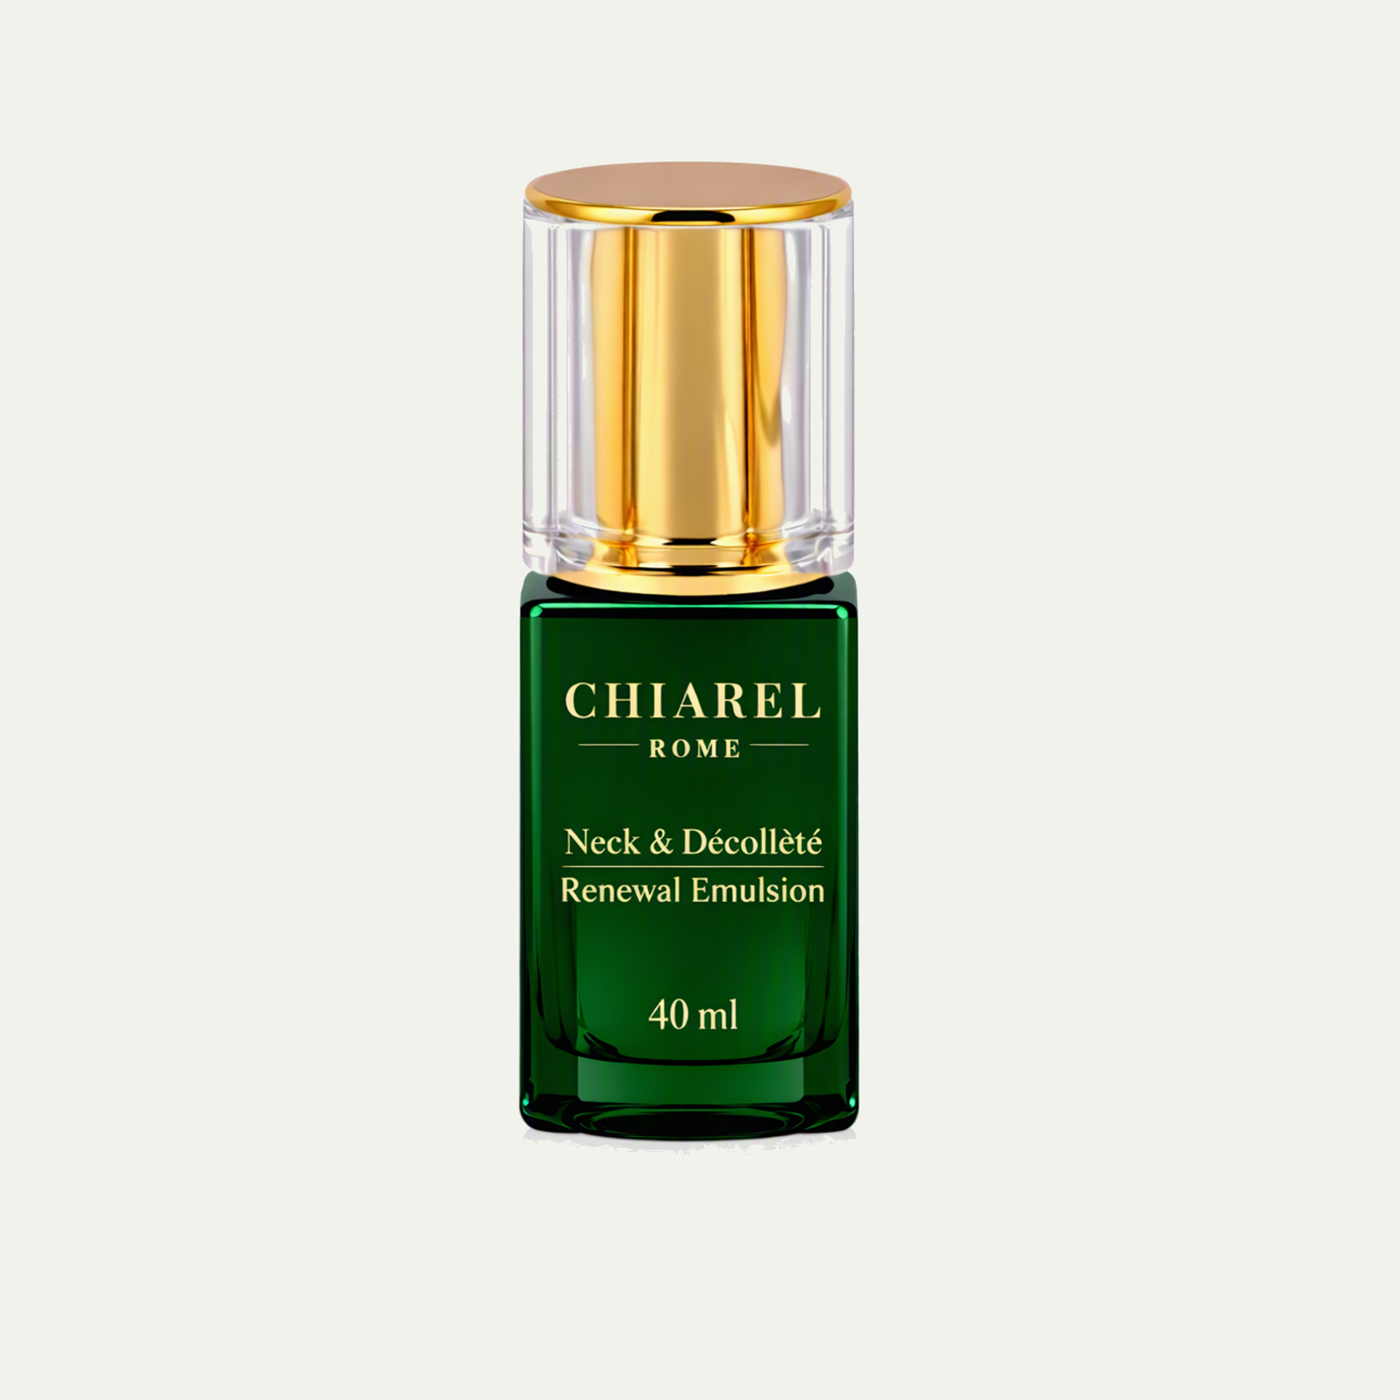
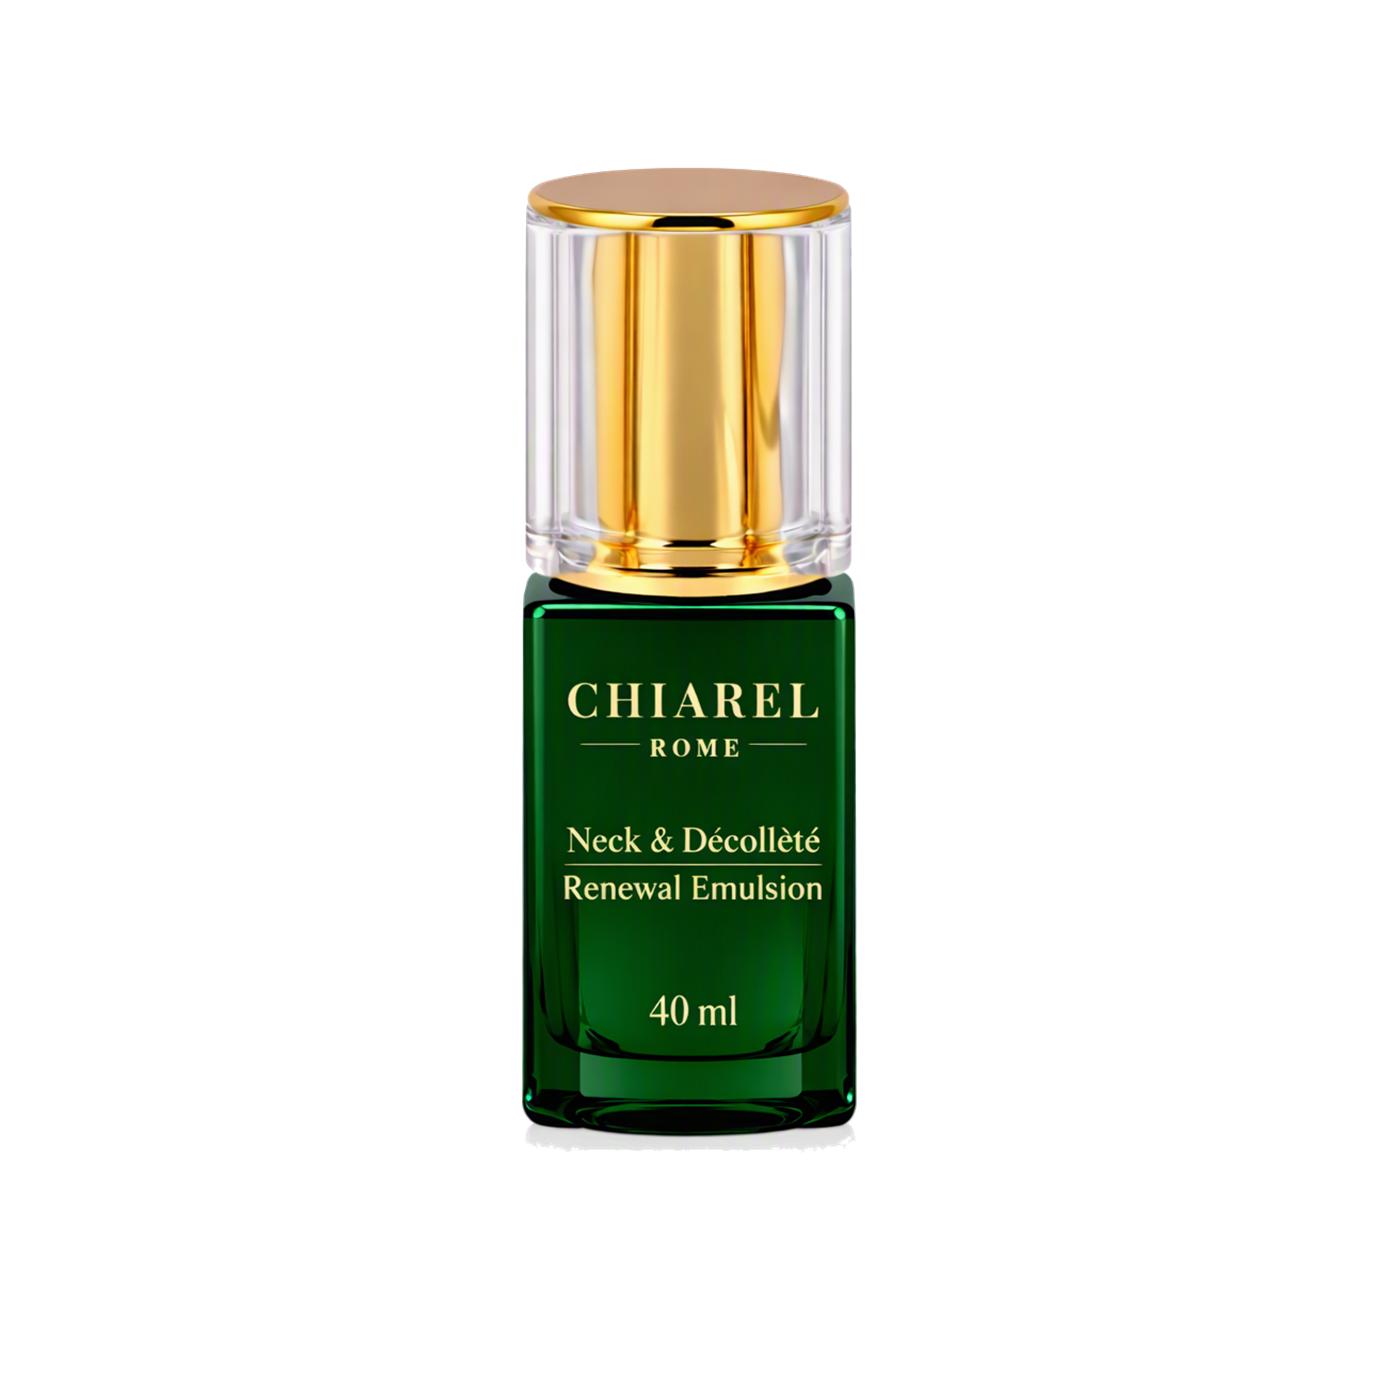
Make N1 packshot a transparent cutout and fix hero hover
My previous N1 fix baked an opaque ivory (#F0F2EB) square into the PNG,
but every other packshot is a transparent 1400x1400 PNG, so the hero
showed a visible box and its drop-shadow outlined the box instead of
the bottle. Redone as a transparent cutout (edge flood-fill so the clear
glass cap is untouched), same canvas as the rest.

Hero hover never fired: .product-reveal's entrance animation uses
fill-mode forwards, which permanently holds transform: translateY(0)
and overrides :hover { transform: scale() }. Switched the hover and its
transition to the independent `scale` property in the shared class.

Changed region(s): [[0.3686, 0.0921, 0.6143, 0.8293]]

diff --git a/app/globals.css b/app/globals.css
@@ -136,10 +136,13 @@ body::after {
   opacity: 0;
   animation: hero-rise 900ms cubic-bezier(0.16, 1, 0.3, 1) forwards;
   animation-delay: 260ms;
-  transition: transform 500ms cubic-bezier(0.16, 1, 0.3, 1);
+  transition: scale 500ms cubic-bezier(0.16, 1, 0.3, 1);
 }
+/* Uses the independent `scale` property, not `transform`: the entrance
+   animation's `forwards` fill holds transform: translateY(0) permanently,
+   which silently overrides any :hover transform. */
 .product-reveal:hover {
-  transform: scale(1.035);
+  scale: 1.035;
 }
 @media (prefers-reduced-motion: reduce) {
   .product-reveal {
@@ -147,7 +150,7 @@ body::after {
     animation: none;
   }
   .product-reveal:hover {
-    transform: none;
+    scale: none;
   }
 }
 
